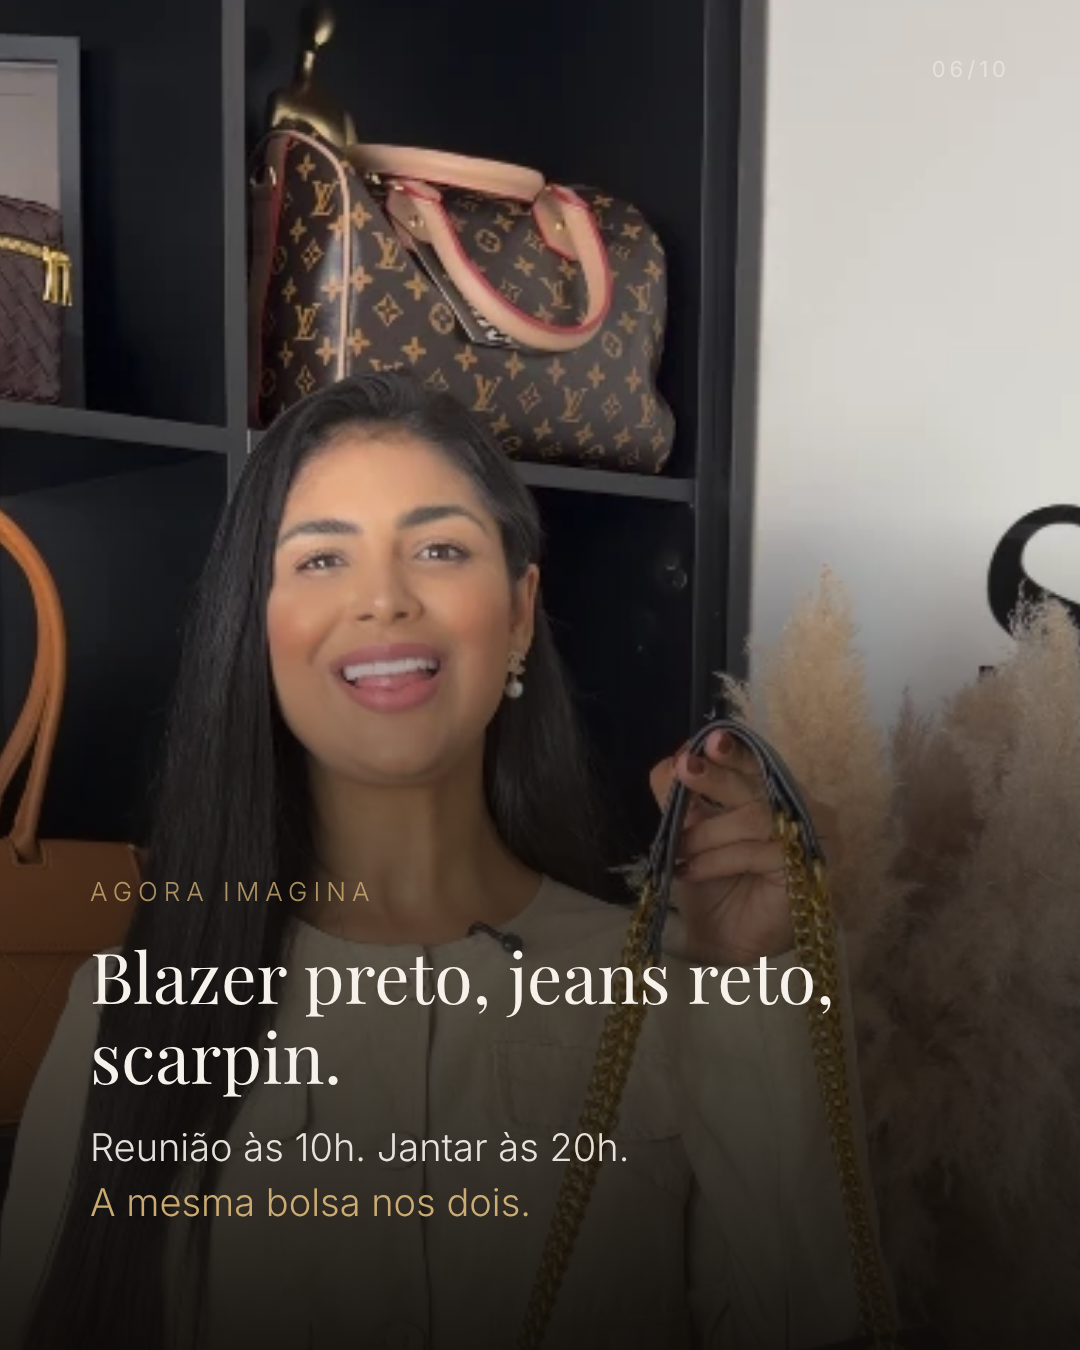
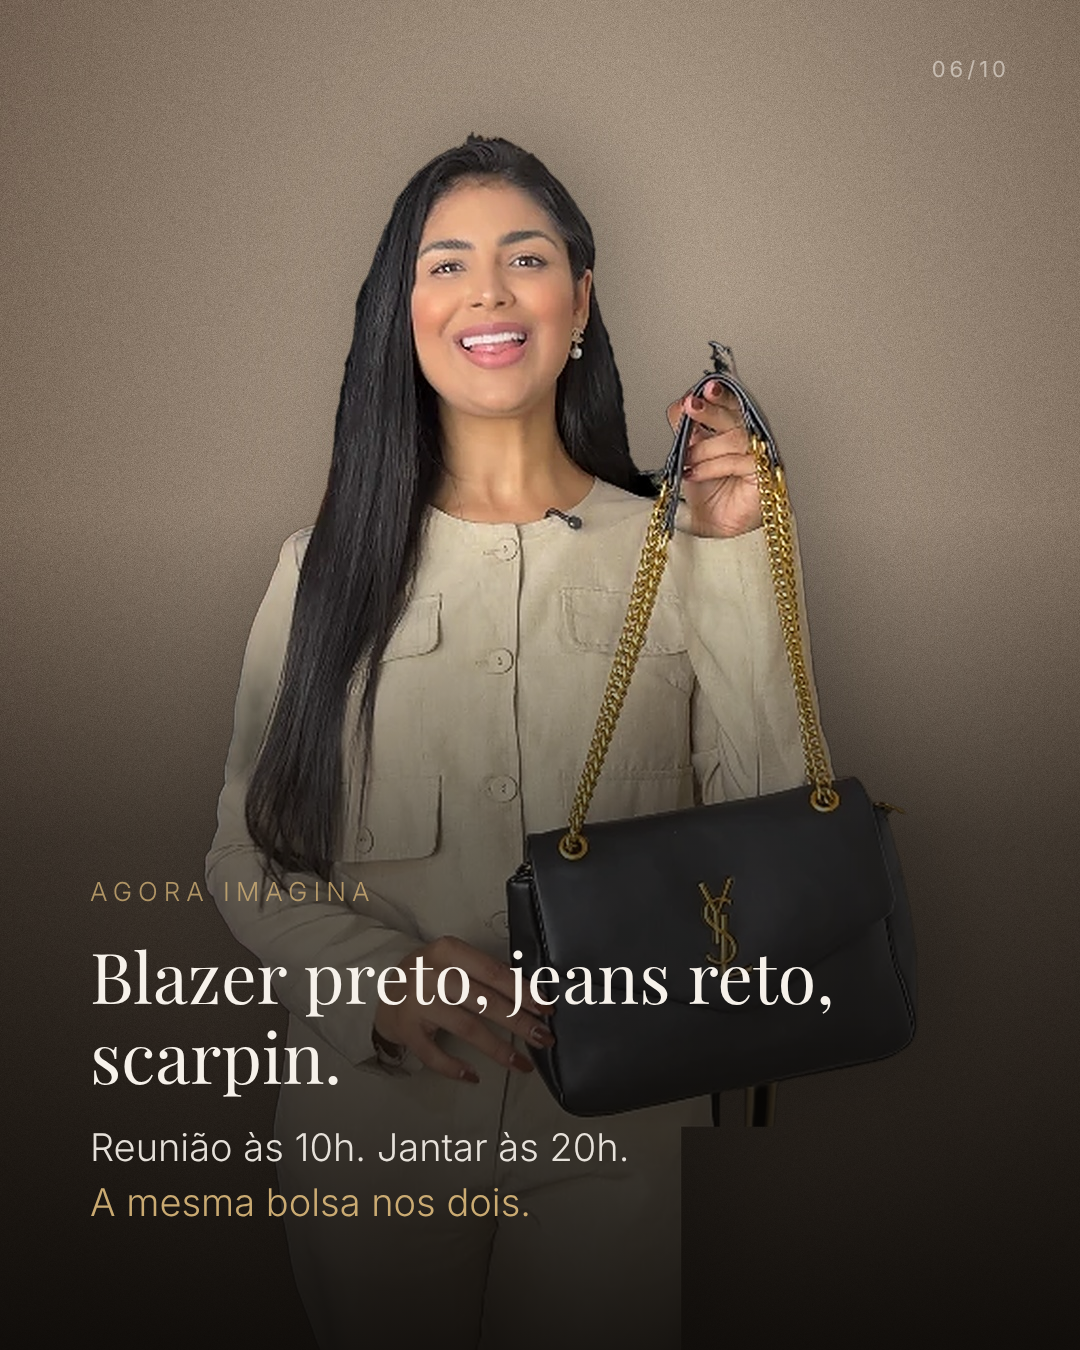
Rebuild carousel with cutout product shots on studio backgrounds
Claude-Session: https://claude.ai/code/session_01BEuZTxtKwCfXHT3HZjw1Q9

diff --git a/carrossel-ysl/slides.html b/carrossel-ysl/slides.html
@@ -5,6 +5,7 @@
 body{background:#222}
 .s{width:1080px;height:1350px;position:relative;overflow:hidden;font-family:'Playfair Display',serif;color:#F6F1EA}
 .ph{position:absolute;inset:0;background:url(foto.webp) no-repeat}
+.img{background-size:cover!important;background-position:center!important}
 .full{background-size:1080px auto;background-position:center 30%}
 .bag{background-size:1800px auto;background-position:-685px -1340px}
 .bagwide{background-size:1400px auto;background-position:-320px -749px}
@@ -33,11 +34,11 @@ li b{font-family:'Playfair Display';font-weight:400;font-size:48px;display:block
 .num{position:absolute;top:56px;right:70px;z-index:3;font-family:Inter;font-size:22px;letter-spacing:4px;opacity:.55}
 </style></head><body>
 
-<div class="s" id="s1"><div class="ph full grad-b"></div>
+<div class="s" id="s1"><div class="ph img grad-b" style="background-image:url(img/p_dark.jpg)"></div>
 <div class="txt bot"><h1>O segredo de quem parece cara <em>não está na roupa.</em></h1><p style="margin-top:40px" class="small">arrasta &rarr;</p></div>
 <div class="num">01/10</div></div>
 
-<div class="s black" id="s2"><div class="ph full blur"></div>
+<div class="s black" id="s2"><div class="ph img" style="background-image:url(img/p_dark_blur.jpg)"></div>
 <div class="txt mid"><h2>Você se arruma, escolhe a roupa, se olha no espelho&hellip;</h2><div class="line"></div><p>e sente que ainda falta alguma coisa.</p></div>
 <div class="num">02/10</div><div class="brand">Miss Secret</div></div>
 
@@ -45,17 +46,16 @@ li b{font-family:'Playfair Display';font-weight:400;font-size:48px;display:block
 <div class="txt mid"><h2>Look simples com a bolsa certa parece <em style="color:#9A7535">escolha.</em></h2><div class="line"></div><h2 style="opacity:.55">Look caro com a bolsa errada parece esforço.</h2></div>
 <div class="num">03/10</div><div class="brand">Miss Secret</div></div>
 
-<div class="s" id="s4"><div class="ph bag grad-b"></div>
-<div class="txt bot"><p class="small gold">Saint Laurent · Envelope Chain</p><h1 style="margin-top:28px">Ela não completa o look. <em>Ela assina.</em></h1></div>
-<div class="num">04/10</div></div>
+<div class="s" id="s4"><div class="ph img" style="background-image:url(img/b_cream.jpg)"></div>
+<div class="txt bot" style="color:#1A1613"><p class="small" style="color:#9A7535">Saint Laurent · Envelope Chain</p><h1 style="margin-top:28px">Ela não completa o look. <em style="color:#9A7535">Ela assina.</em></h1></div>
+<div class="num" style="color:#1A1613">04/10</div></div>
 
-<div class="s" id="s5"><div class="ph bagwide grad-t"></div>
-<div style="position:absolute;inset:0;background:rgba(10,8,6,.55)"></div>
-<div class="txt mid"><h2 style="margin-bottom:40px">Por que ela chama atenção</h2>
+<div class="s" id="s5"><div class="ph img" style="background-image:url(img/b_dark.jpg)"></div>
+<div class="txt top"><h2 style="margin-bottom:30px">Por que ela chama atenção</h2>
 <ul><li><b>Aba envelope</b>linhas limpas, cara de alfaiataria</li><li><b>Corrente dourada</b>transforma o básico em noite</li><li><b>Logo YSL em metal</b>discreto, e todo mundo reconhece</li></ul></div>
 <div class="num">05/10</div><div class="brand">Miss Secret</div></div>
 
-<div class="s" id="s6"><div class="ph face grad-b"></div>
+<div class="s" id="s6"><div class="ph img grad-b" style="background-image:url(img/p_taupe.jpg)"></div>
 <div class="txt bot"><p class="small gold">agora imagina</p><h2 style="margin-top:24px">Blazer preto, jeans reto, scarpin.</h2><p style="margin-top:24px">Reunião às 10h. Jantar às 20h.<br><span class="gold">A mesma bolsa nos dois.</span></p></div>
 <div class="num">06/10</div></div>
 
@@ -63,17 +63,17 @@ li b{font-family:'Playfair Display';font-weight:400;font-size:48px;display:block
 <div class="txt mid"><p style="font-style:italic;opacity:.6">&ldquo;Mas eu já tenho bolsa preta.&rdquo;</p><div class="line"></div><h1>Toda mulher tem uma bolsa preta.</h1><h1 style="margin-top:30px"><em>Poucas têm essa.</em></h1></div>
 <div class="num">07/10</div><div class="brand">Miss Secret</div></div>
 
-<div class="s" id="s8"><div class="ph bagwide blur"></div>
-<div class="txt mid"><h2>Tem bolsa que fica na vitrine.</h2><div class="line"></div><h2><em>E tem bolsa que vai parar no print das amigas.</em></h2></div>
+<div class="s" id="s8"><div class="ph img" style="background-image:url(img/b_taupe.jpg)"></div>
+<div class="txt top"><h2>Tem bolsa que fica na vitrine.</h2><div class="line"></div><h2><em>E tem bolsa que vai parar no print das amigas.</em></h2></div>
 <div class="num">08/10</div><div class="brand">Miss Secret</div></div>
 
-<div class="s" id="s9"><div class="ph bag" style="filter:brightness(.4)"></div>
-<div class="txt mid"><p class="small gold">seja sincera</p><h1 style="margin-top:30px">De 0 a 10, quanto essa bolsa é <em>você?</em></h1>
+<div class="s" id="s9"><div class="ph img" style="background-image:url(img/b_spot.jpg)"></div>
+<div class="txt top"><p class="small gold">seja sincera</p><h1 style="margin-top:30px">De 0 a 10, quanto essa bolsa é <em>você?</em></h1>
 <div class="scale"><span>0</span><span>2</span><span>4</span><span>6</span><span>8</span><span class="on">10</span></div>
 <p style="margin-top:60px;font-size:32px">Manda pra amiga que vai dar 10.</p></div>
 <div class="num">09/10</div><div class="brand">Miss Secret</div></div>
 
-<div class="s" id="s10"><div class="ph full grad-b"></div>
+<div class="s" id="s10"><div class="ph img grad-b" style="background-image:url(img/p_dark_r.jpg)"></div>
 <div class="txt bot"><h2>Se ela combinou com você até aqui, <em>não deixa pra depois.</em></h2>
 <p style="margin-top:30px">YSL Envelope Chain · original<br>disponível na Miss Secret</p>
 <div class="cta">misssecret.com.br</div></div>
